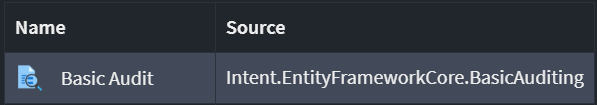
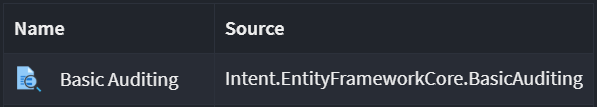
Also had to rename the stereotype from "Basic Audit" to "Basic Auditing".
Updated readme with detail on how the source code gets updated.

diff --git a/Modules/Intent.Modules.EntityFrameworkCore.BasicAuditing/Api/ClassModelStereotypeExtensions.cs b/Modules/Intent.Modules.EntityFrameworkCore.BasicAuditing/Api/ClassModelStereotypeExtensions.cs
@@ -13,35 +13,35 @@ namespace Intent.EntityFrameworkCore.BasicAuditing.Api
 {
     public static class ClassModelStereotypeExtensions
     {
-        public static BasicAudit GetBasicAudit(this ClassModel model)
+        public static BasicAuditing GetBasicAuditing(this ClassModel model)
         {
-            var stereotype = model.GetStereotype("Basic Audit");
-            return stereotype != null ? new BasicAudit(stereotype) : null;
+            var stereotype = model.GetStereotype("Basic Auditing");
+            return stereotype != null ? new BasicAuditing(stereotype) : null;
         }
 
 
-        public static bool HasBasicAudit(this ClassModel model)
+        public static bool HasBasicAuditing(this ClassModel model)
         {
-            return model.HasStereotype("Basic Audit");
+            return model.HasStereotype("Basic Auditing");
         }
 
-        public static bool TryGetBasicAudit(this ClassModel model, out BasicAudit stereotype)
+        public static bool TryGetBasicAuditing(this ClassModel model, out BasicAuditing stereotype)
         {
-            if (!HasBasicAudit(model))
+            if (!HasBasicAuditing(model))
             {
                 stereotype = null;
                 return false;
             }
 
-            stereotype = new BasicAudit(model.GetStereotype("Basic Audit"));
+            stereotype = new BasicAuditing(model.GetStereotype("Basic Auditing"));
             return true;
         }
 
-        public class BasicAudit
+        public class BasicAuditing
         {
             private IStereotype _stereotype;
 
-            public BasicAudit(IStereotype stereotype)
+            public BasicAuditing(IStereotype stereotype)
             {
                 _stereotype = stereotype;
             }

diff --git a/Modules/Intent.Modules.EntityFrameworkCore.BasicAuditing/FactoryExtensions/EfCoreExtension.cs b/Modules/Intent.Modules.EntityFrameworkCore.BasicAuditing/FactoryExtensions/EfCoreExtension.cs
@@ -70,7 +70,7 @@ namespace Intent.Modules.EntityFrameworkCore.BasicAuditing.FactoryExtensions
                 {
                     var priClass = file.Classes.First();
                     var model = priClass.GetMetadata<ClassModel>("model");
-                    if (!model.HasBasicAudit()) { return; }
+                    if (!model.HasBasicAuditing()) { return; }
                     priClass.ImplementsInterface(entity.GetAuditableInterfaceName());
                 });
             }

diff --git a/Modules/Intent.Modules.EntityFrameworkCore.BasicAuditing/README.md b/Modules/Intent.Modules.EntityFrameworkCore.BasicAuditing/README.md
@@ -28,3 +28,53 @@ Your Entity will now be extended with the following attributes:
 > **Note**
 >
 > It is worth noting that the "updated" attributes remain null upon creation and only get populated when an update has taken place.
+
+This introduces a `IAuditible` interface in your `Domain`project which gets added to class Entities that are decorated with the `Basic Auditing` stereotype.
+
+```csharp
+public interface IAuditable
+{
+    string? CreatedBy { get; set; }
+    DateTimeOffset CreatedDate { get; set; }
+    string? UpdatedBy { get; set; }
+    DateTimeOffset? UpdatedDate { get; set; }
+}
+```
+
+Example:
+
+```csharp
+public class Person : IHasDomainEvent, IAuditable
+{
+    public Guid Id { get; set; }
+
+    public string FirstName { get; set; }
+    
+    public string LastName { get; set; }
+    
+    public DateTime DateOfBirth { get; set; }
+
+    public string? CreatedBy { get; set; }
+
+    public DateTimeOffset CreatedDate { get; set; }
+
+    public string? UpdatedBy { get; set; }
+
+    public DateTimeOffset? UpdatedDate { get; set; }
+
+    public List<DomainEvent> DomainEvents { get; set; } = new List<DomainEvent>();
+}
+```
+
+Your `DbContext` will also be extended to automatically populate the Entities with the `IAuditable` interface using the injected `ICurrentUserService` to resolve the "current user" at the time.  
+
+```csharp
+public override async Task<int> SaveChangesAsync(
+    bool acceptAllChangesOnSuccess,
+    CancellationToken cancellationToken = default)
+{
+    SetAuditableFields();
+    
+    // ...
+}
+```
